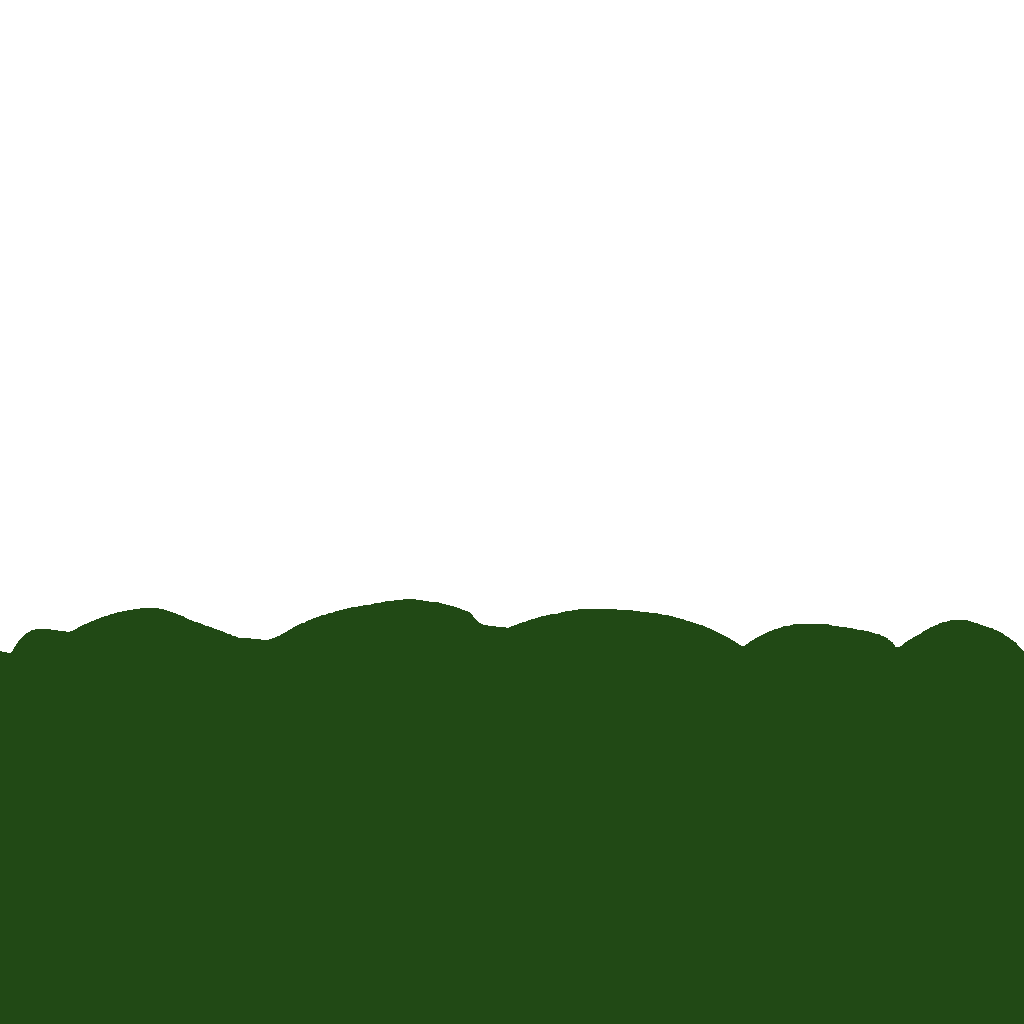
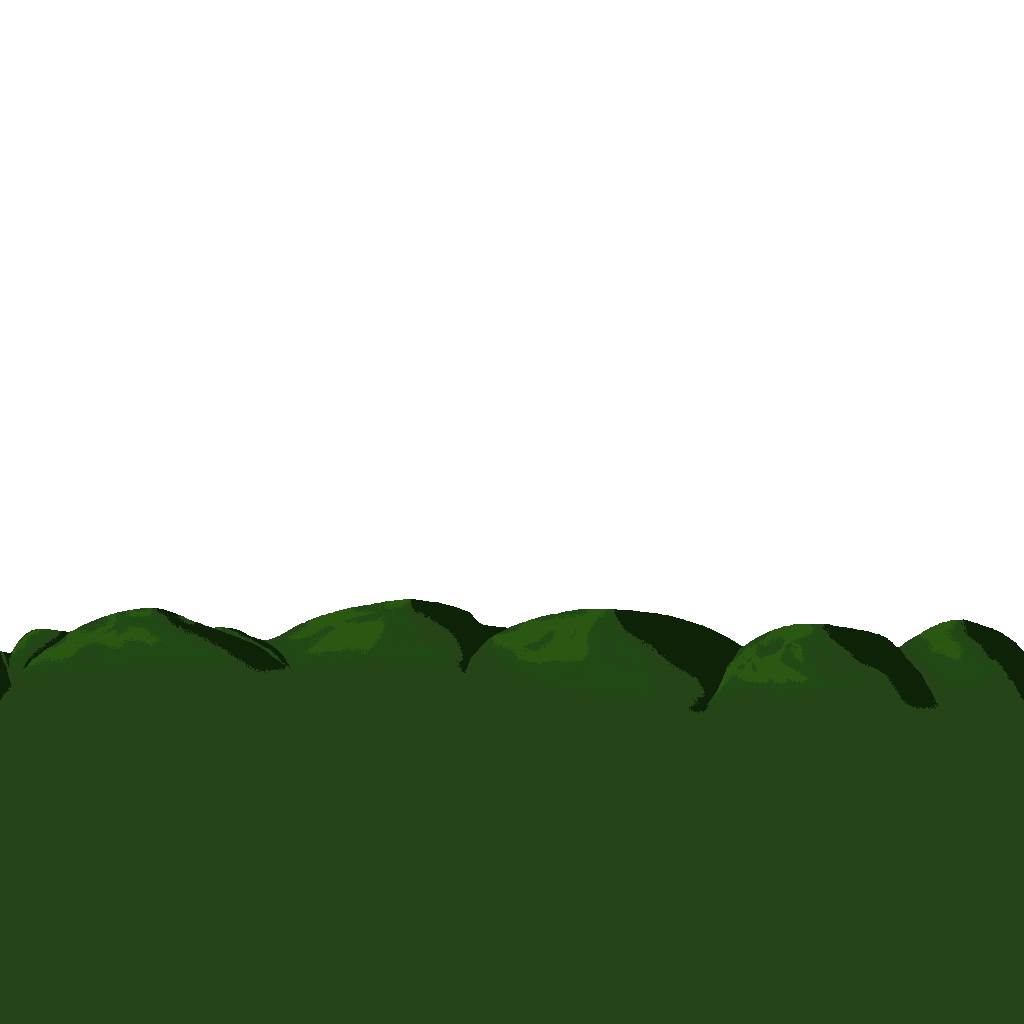
Added offsets to background layers, updated sprites for hills and trees

diff --git a/Fredrick/src/Drawing/Background.cs b/Fredrick/src/Drawing/Background.cs
@@ -18,12 +18,16 @@ namespace Fredrick.src
 			//For parallax values: 0 = moves with camera, 1 = stationary
 			public float m_parallaxHorizontal;
 			public float m_parallaxVertical;
+			public float m_offsetHorizontal;
+			public float m_offsetVertical;
 
-			public Layer(Drawable drawable, float parallaxHorizontal, float parallaxVertical)
+			public Layer(Drawable drawable, float parallaxHorizontal, float parallaxVertical, float offsetHorizontal = 0, float offsetVertical = 0)
 			{
 				m_drawable = drawable;
 				m_parallaxHorizontal = parallaxHorizontal;
 				m_parallaxVertical = parallaxVertical;
+				m_offsetHorizontal = offsetHorizontal;
+				m_offsetVertical = offsetVertical;
 			}
 
 			public void Load(ContentManager content)
@@ -33,7 +37,7 @@ namespace Fredrick.src
 
 			public void Draw(SpriteBatch spriteBatch, Vector2 position)
 			{
-				Vector2 drawnPosition = new Vector2(position.X * (1 - m_parallaxHorizontal), position.Y * (1 - m_parallaxVertical)) * m_drawable._spriteSize;
+				Vector2 drawnPosition = new Vector2((position.X * (1 - m_parallaxHorizontal)) + m_offsetHorizontal, (position.Y * (1 - m_parallaxVertical)) + m_offsetVertical) * m_drawable._spriteSize;
 				drawnPosition *= new Vector2(1, -1);
 				position *= new Vector2(1, -1);
 				drawnPosition.X = drawnPosition.X % m_drawable._spriteWidth;
@@ -45,9 +49,9 @@ namespace Fredrick.src
 
 		private List<Layer> layers = new List<Layer>();
 
-		public void AddLayer(Drawable drawable, float parallaxHorizontal, float parallaxVertical)
+		public void AddLayer(Drawable drawable, float parallaxHorizontal, float parallaxVertical, float offsetHorizontal = 0, float offsetVertical = 0)
 		{
-			layers.Add(new Layer(drawable, parallaxHorizontal, parallaxVertical));
+			layers.Add(new Layer(drawable, parallaxHorizontal, parallaxVertical, offsetHorizontal, offsetVertical));
 		}
 
 		public void Load(ContentManager content)

diff --git a/Fredrick/src/Game1.cs b/Fredrick/src/Game1.cs
@@ -82,9 +82,13 @@ namespace Fredrick.src
 			SpawnManager.Instance.Load();
 
 			background = new Background();
-			background.AddLayer(new Drawable("Sky", new Vector2(1920/2, 1080 / 2), 1920, 1080, 0), 0.95f, 0.95f);
-			background.AddLayer(new Drawable("Mountains", new Vector2(1024/2, 578), 1024, 1024, 0), 0.9f, 0.9f);
-			background.AddLayer(new Drawable("Hills", new Vector2(1024 / 2, 620), 1024, 1024, 0), 0.8f, 0.8f);
+			background.AddLayer(new Drawable("Sky", new Vector2(1920 / 2, 1080 / 2), 1920, 1080, 0), 0.95f, 0.95f);
+			background.AddLayer(new Drawable("Mountains", new Vector2(1024 / 2, 578), 1024, 1024, 0), 0.9f, 0.9f);
+			background.AddLayer(new Drawable("Hills", new Vector2(1024 / 2, 720), 1024, 1024, 0), 0.8f, 0.8f);
+			background.AddLayer(new Drawable("Trees", new Vector2(1024 / 2, 580), 1024, 1024, 0), 0.6f, 0.6f);
+			background.AddLayer(new Drawable("Trees", new Vector2((1024 / 2), 580), 1024, 1024, 0), 0.58f, 0.58f, 100, 0);
+			background.AddLayer(new Drawable("Trees", new Vector2((1024 / 2), 580), 1024, 1024, 0), 0.56f, 0.56f, 200, 0);
+			background.AddLayer(new Drawable("Trees", new Vector2((1024 / 2), 580), 1024, 1024, 0), 0.54f, 0.54f, 300, 0);
 
 			if (true)
 			{
